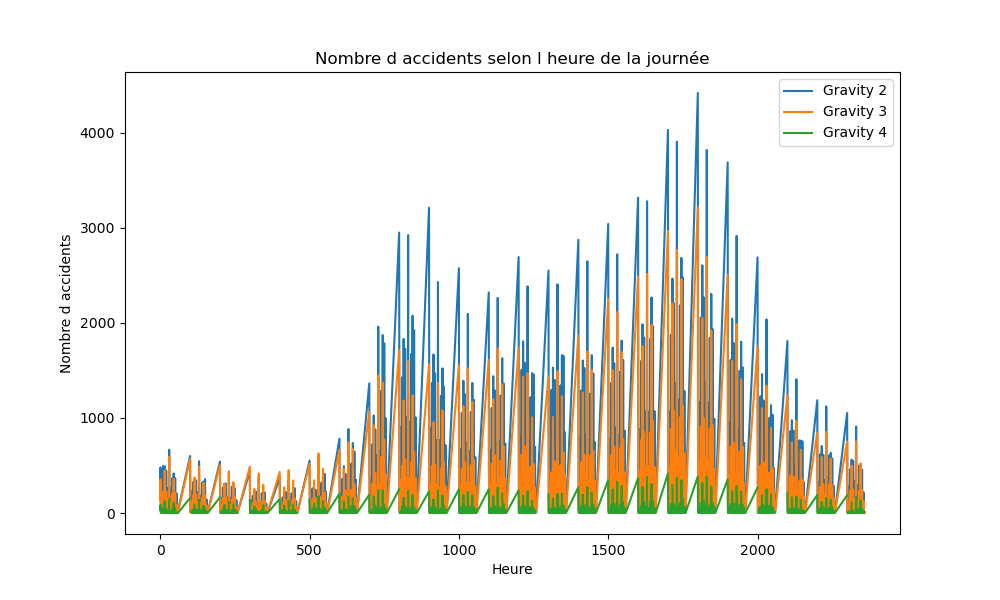
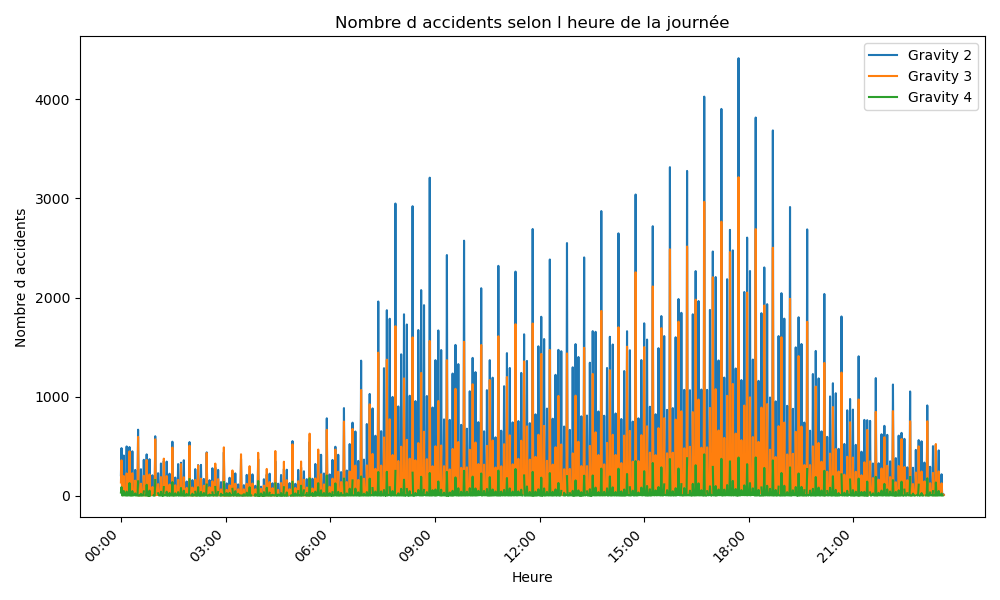
c'est bon pour le graphique en fonction de l'heure

diff --git a/capucine/capucine.py b/capucine/capucine.py
@@ -11,7 +11,7 @@ df2= pd.read_csv(path+file_name2, sep=',',low_memory=False)
 df=pd.concat([df1,df2])
 df['grav'] = df['grav'].replace({'1':1,'2':2,'3':3,'4':4})
 df=df[df['grav']!='grav']
-
+"""
 # Par mois
 
 df['mois']=df['mois'].replace({'1':'01','2':'02','3':'03','4':'04','5':'05','6':'06','7':'07','8':'08','9':'09',1.0:'01',2.0:'02',3.0:'03',4.0:'04',5.0:'05',6.0:'06',7.0:'07',8.0:'08',9.0:'09',10.0:'10',11.0:'11',12.0:'12','1.0':'01','2.0':'02','3.0':'03','4.0':'04','5.0':'05','6.0':'06','7.0':'07','8.0':'08','9.0':'09','10.0':'10','11.0':'11','12.0':'12'})
@@ -49,7 +49,7 @@ plt.xlabel('An')
 plt.title('Nombre d accidents selon l année')
 plt.legend()
 plt.savefig(path+'capucine/'+'an.png')
-plt.show()
+plt.show()"""
 
 
 #Par heure
@@ -61,16 +61,25 @@ graph_df = graph_df.pivot(index='grav', columns='hrmn', values='accident_count')
 
 plt.figure(figsize=(10, 6))
 for gravity_type in graph_df.index:
-    plt.plot(graph_df.columns, graph_df.loc[gravity_type], label=f'Gravity {gravity_type}')
+    plt.plot(graph_df.columns.astype(str).str.zfill(4).str[:2] + ':' + graph_df.columns.astype(str).str.zfill(4).str[2:],
+             graph_df.loc[gravity_type], label=f'Gravity {gravity_type}')
 
-plt.xticks(rotation=0)
 plt.ylabel('Nombre d accidents')
 plt.xlabel('Heure')
 plt.title('Nombre d accidents selon l heure de la journée')
-plt.legend()
-plt.savefig(path+'capucine/'+'heure.png')
-plt.show()
 
+
+plt.xticks(rotation=45, ha='right')
+num_columns = graph_df.shape[1]
+specific_hours = ['00:00', '03:00', '06:00', '09:00', '12:00', '15:00', '18:00', '21:00']
+tick_positions = [int(i*300*num_columns/2359)for i in range (8)]
+plt.xticks(tick_positions, specific_hours, rotation=45, ha='right')
+
+
+plt.legend()
+plt.tight_layout() 
+plt.savefig(path + 'capucine/' + 'heure.png')
+plt.show()
 
 
 
